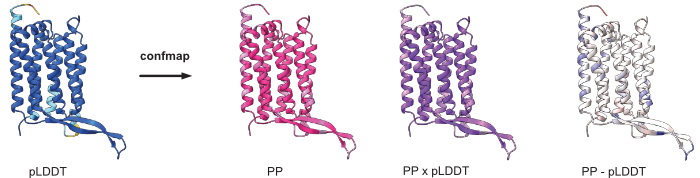
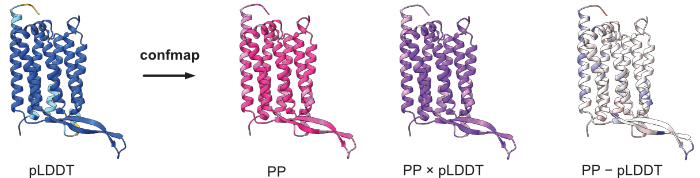
Update README

diff --git a/README.md b/README.md
@@ -11,7 +11,7 @@ The repository provides:
 
 ![indel_aware](images/indel_aware.png)
 
-- **Confidence mapping (“confmap”)** scripts to embed ASR posterior probability (PP), PP x pLDDT and PP - pLDDT into B-factors of AlphaFold models
+- **Confidence mapping (“confmap”)** scripts to embed ASR posterior probability (PP), PP × pLDDT and PP − pLDDT into B-factors of AlphaFold models
 
 ![confmap](images/confmap.png)
 
